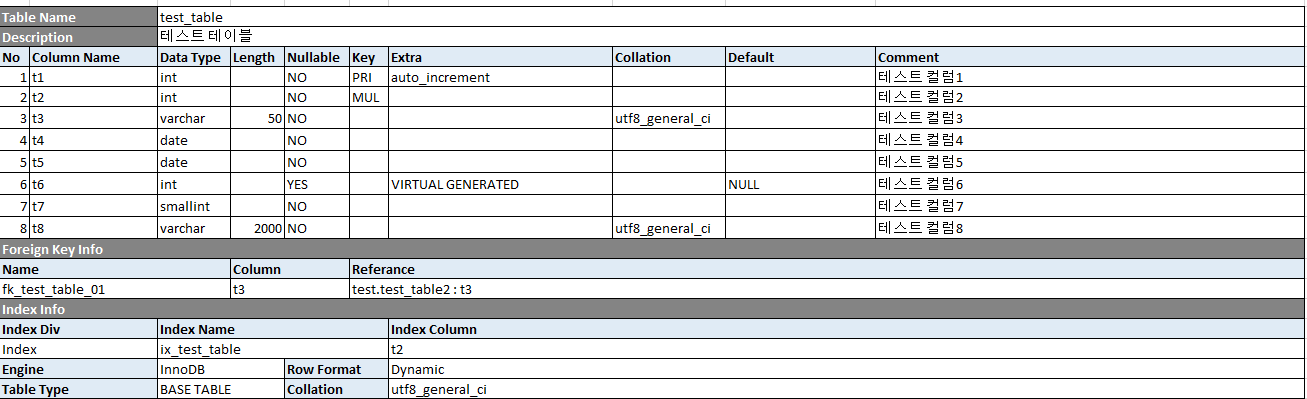
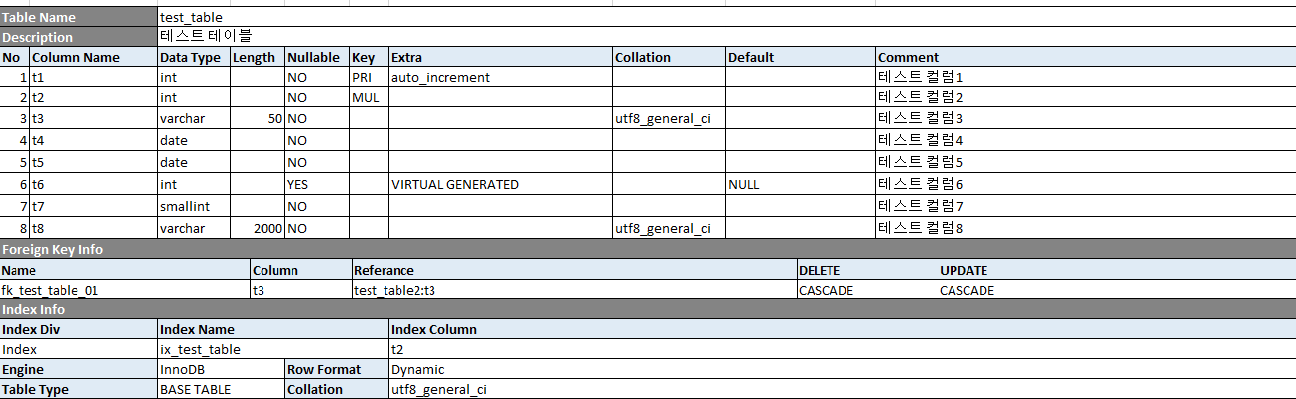
ADD Delete Rule , Update Rule for FK. Dependency Package Managing for Glide.

diff --git a/MariaDB-TableSpec.go b/MariaDB-TableSpec.go
@@ -10,12 +10,12 @@ import (
 
 func main() {
 	
-	srvhost := flag.String("host","","Target Database Host.")
+	srvhost := flag.String("host","localhost","Target Database Host.")
 	srvport := flag.String("port","3306","Target Database Port.")
 	srvuser := flag.String("user","root","Database Connect User.")
 	srvpass := flag.String("password","","Database Connect Password.")
-	xlsfile := flag.String("file","","Export File Path and Name.")
-	srvdb := flag.String("database","","Export for Database.")
+	xlsfile := flag.String("file","default.xlsx","Export File Path and Name.")
+	srvdb := flag.String("database","mysql","Export for Database.")
 
 	flag.Parse()
 
@@ -59,6 +59,8 @@ func main() {
 		const_key	string
 		const_col	string
 		const_refer	sql.NullString
+		const_del	string
+		const_upd	string
 	}
 
 	var dvConst colConst
@@ -255,18 +257,20 @@ func main() {
 		exFile.SetCellValue(srvDB,fmt.Sprintf("A%d",colRownum),"Foreign Key Info")
 		colRownum += 1
 
-		constDiv := []string{"A","D","F"}
-		constNames := []string{"Name","Column","Referance"}
+		constDiv := []string{"A","D","E","I","J"}
+		constNames := []string{"Name","Column","Referance","DELETE","UPDATE"}
 
 		// Merge Cell
 		exFile.MergeCell(srvDB, fmt.Sprintf("A%d",colRownum), fmt.Sprintf("C%d",colRownum))
-		exFile.MergeCell(srvDB, fmt.Sprintf("D%d",colRownum), fmt.Sprintf("E%d",colRownum))
-		exFile.MergeCell(srvDB, fmt.Sprintf("F%d",colRownum), fmt.Sprintf("J%d",colRownum))
+		exFile.MergeCell(srvDB, fmt.Sprintf("D%d",colRownum), fmt.Sprintf("D%d",colRownum))
+		exFile.MergeCell(srvDB, fmt.Sprintf("E%d",colRownum), fmt.Sprintf("H%d",colRownum))
 
 		// Style 
 		exFile.SetCellStyle(srvDB, fmt.Sprintf("A%d",colRownum), fmt.Sprintf("C%d",colRownum),exTitle)
-		exFile.SetCellStyle(srvDB, fmt.Sprintf("D%d",colRownum), fmt.Sprintf("E%d",colRownum),exTitle)
-		exFile.SetCellStyle(srvDB, fmt.Sprintf("F%d",colRownum), fmt.Sprintf("J%d",colRownum),exTitle)
+		exFile.SetCellStyle(srvDB, fmt.Sprintf("D%d",colRownum), fmt.Sprintf("D%d",colRownum),exTitle)
+		exFile.SetCellStyle(srvDB, fmt.Sprintf("E%d",colRownum), fmt.Sprintf("H%d",colRownum),exTitle)
+		exFile.SetCellStyle(srvDB, fmt.Sprintf("I%d",colRownum), fmt.Sprintf("I%d",colRownum),exTitle)
+		exFile.SetCellStyle(srvDB, fmt.Sprintf("J%d",colRownum), fmt.Sprintf("J%d",colRownum),exTitle)
 
 		for idx, constNm := range constNames {
 			exFile.SetCellValue(srvDB,fmt.Sprintf("%s%d",constDiv[idx],colRownum),constNm)
@@ -274,7 +278,7 @@ func main() {
 		colRownum += 1
 
 		// Get Constraint
-		var getConstFormat string = "SELECT constraint_name AS constraint_key,group_concat(column_name) AS con_column,concat(referenced_table_schema,'.',referenced_table_name,' : ',referenced_column_name) AS refer_info FROM information_schema.KEY_COLUMN_USAGE WHERE CONSTRAINT_SCHEMA='%s' AND table_name='%s' AND constraint_name<> 'PRIMARY' GROUP BY constraint_name"
+		var getConstFormat string = "SELECT x.constraint_name AS constraint_key,group_concat(x.column_name) AS con_column,concat(x.referenced_table_name,'.',x.referenced_column_name) AS refer_info,y.DELETE_RULE,y.UPDATE_RULE FROM information_schema.KEY_COLUMN_USAGE x INNER JOIN information_schema.REFERENTIAL_CONSTRAINTS y ON x.constraint_name=y.constraint_name WHERE x.CONSTRAINT_SCHEMA='%s' AND x.table_name='%s' AND x.constraint_name<> 'PRIMARY' GROUP BY x.constraint_name"
 		var getConst string = fmt.Sprintf(getConstFormat,dvTB.schema,dvTB.table_nm)
 		constRows, err := dbCon.Query(getConst)
 		if err != nil {
@@ -284,24 +288,28 @@ func main() {
 
 		// Constraint Insert
 		for constRows.Next() {
-			err := constRows.Scan(&dvConst.const_key,&dvConst.const_col,&dvConst.const_refer)
+			err := constRows.Scan(&dvConst.const_key,&dvConst.const_col,&dvConst.const_refer,&dvConst.const_del,&dvConst.const_upd)
 			if err != nil {
 				panic(err)
 			}
 			if dvConst.const_refer.Valid {
 				// Merge cell
 				exFile.MergeCell(srvDB, fmt.Sprintf("A%d",colRownum), fmt.Sprintf("C%d",colRownum))
-				exFile.MergeCell(srvDB, fmt.Sprintf("D%d",colRownum), fmt.Sprintf("E%d",colRownum))
-				exFile.MergeCell(srvDB, fmt.Sprintf("F%d",colRownum), fmt.Sprintf("J%d",colRownum))
+				exFile.MergeCell(srvDB, fmt.Sprintf("D%d",colRownum), fmt.Sprintf("D%d",colRownum))
+				exFile.MergeCell(srvDB, fmt.Sprintf("E%d",colRownum), fmt.Sprintf("H%d",colRownum))
 
 				// Style 
 				exFile.SetCellStyle(srvDB, fmt.Sprintf("A%d",colRownum), fmt.Sprintf("C%d",colRownum),exCont)
-				exFile.SetCellStyle(srvDB, fmt.Sprintf("D%d",colRownum), fmt.Sprintf("E%d",colRownum),exCont)
-				exFile.SetCellStyle(srvDB, fmt.Sprintf("F%d",colRownum), fmt.Sprintf("J%d",colRownum),exCont)
+				exFile.SetCellStyle(srvDB, fmt.Sprintf("D%d",colRownum), fmt.Sprintf("D%d",colRownum),exCont)
+				exFile.SetCellStyle(srvDB, fmt.Sprintf("E%d",colRownum), fmt.Sprintf("H%d",colRownum),exCont)
+				exFile.SetCellStyle(srvDB, fmt.Sprintf("I%d",colRownum), fmt.Sprintf("I%d",colRownum),exCont)
+				exFile.SetCellStyle(srvDB, fmt.Sprintf("J%d",colRownum), fmt.Sprintf("J%d",colRownum),exCont)
 
 				exFile.SetCellValue(srvDB,fmt.Sprintf("A%d",colRownum),dvConst.const_key)
 				exFile.SetCellValue(srvDB,fmt.Sprintf("D%d",colRownum),dvConst.const_col)
-				exFile.SetCellValue(srvDB,fmt.Sprintf("F%d",colRownum),dvConst.const_refer.String)
+				exFile.SetCellValue(srvDB,fmt.Sprintf("E%d",colRownum),dvConst.const_refer.String)
+				exFile.SetCellValue(srvDB,fmt.Sprintf("I%d",colRownum),dvConst.const_del)
+				exFile.SetCellValue(srvDB,fmt.Sprintf("J%d",colRownum),dvConst.const_upd)
 				colRownum += 1
 			}
 			

diff --git a/README.md b/README.md
@@ -3,11 +3,18 @@
 
 MariaDB 테이블에 대한 명세표 생성(xlsx) 프로그램 입니다. 
 
+## Version
+### 1.0
++ 프로그램 개발 및 테스트 진행
+
+### 1.1
++ Foreign Key 에 대한 Delete_rule / Update_rule 추가
++ Dependeny Package 관리를 위해 Glide 추가
 
 ## Use Package 
 ```
-"github.com/360EntSecGroup-Skylar/excelize"
-"github.com/go-sql-driver/mysql"
+go get github.com/360EntSecGroup-Skylar/excelize
+go get github.com/go-sql-driver/mysql
 ```
 
 ## Arg
